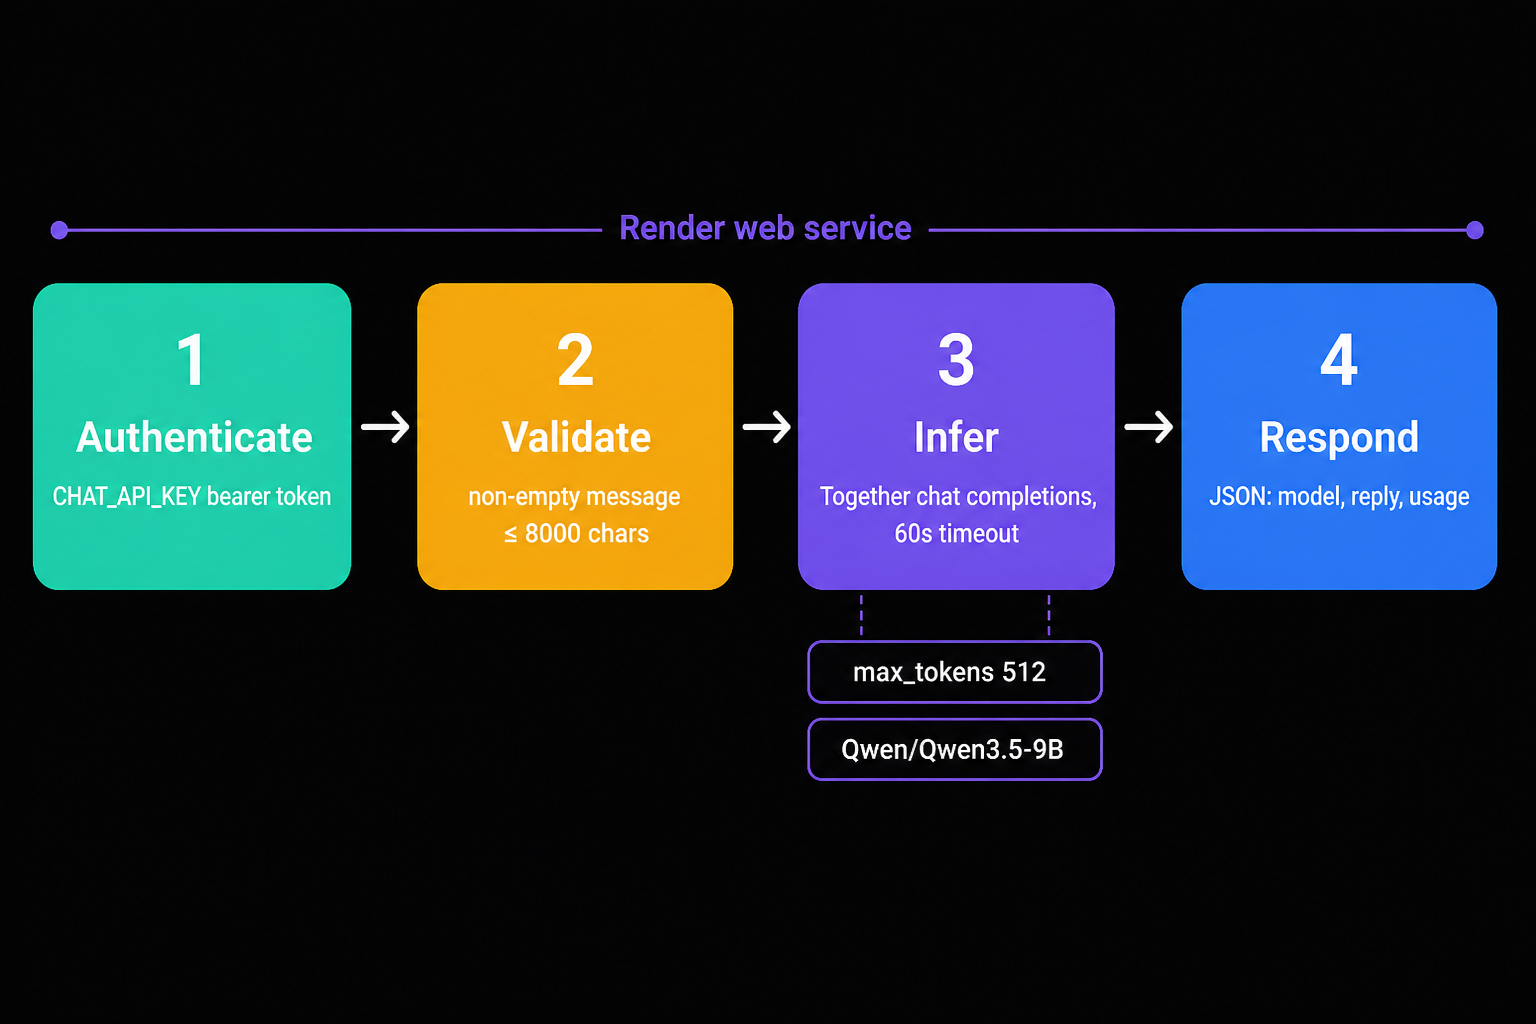
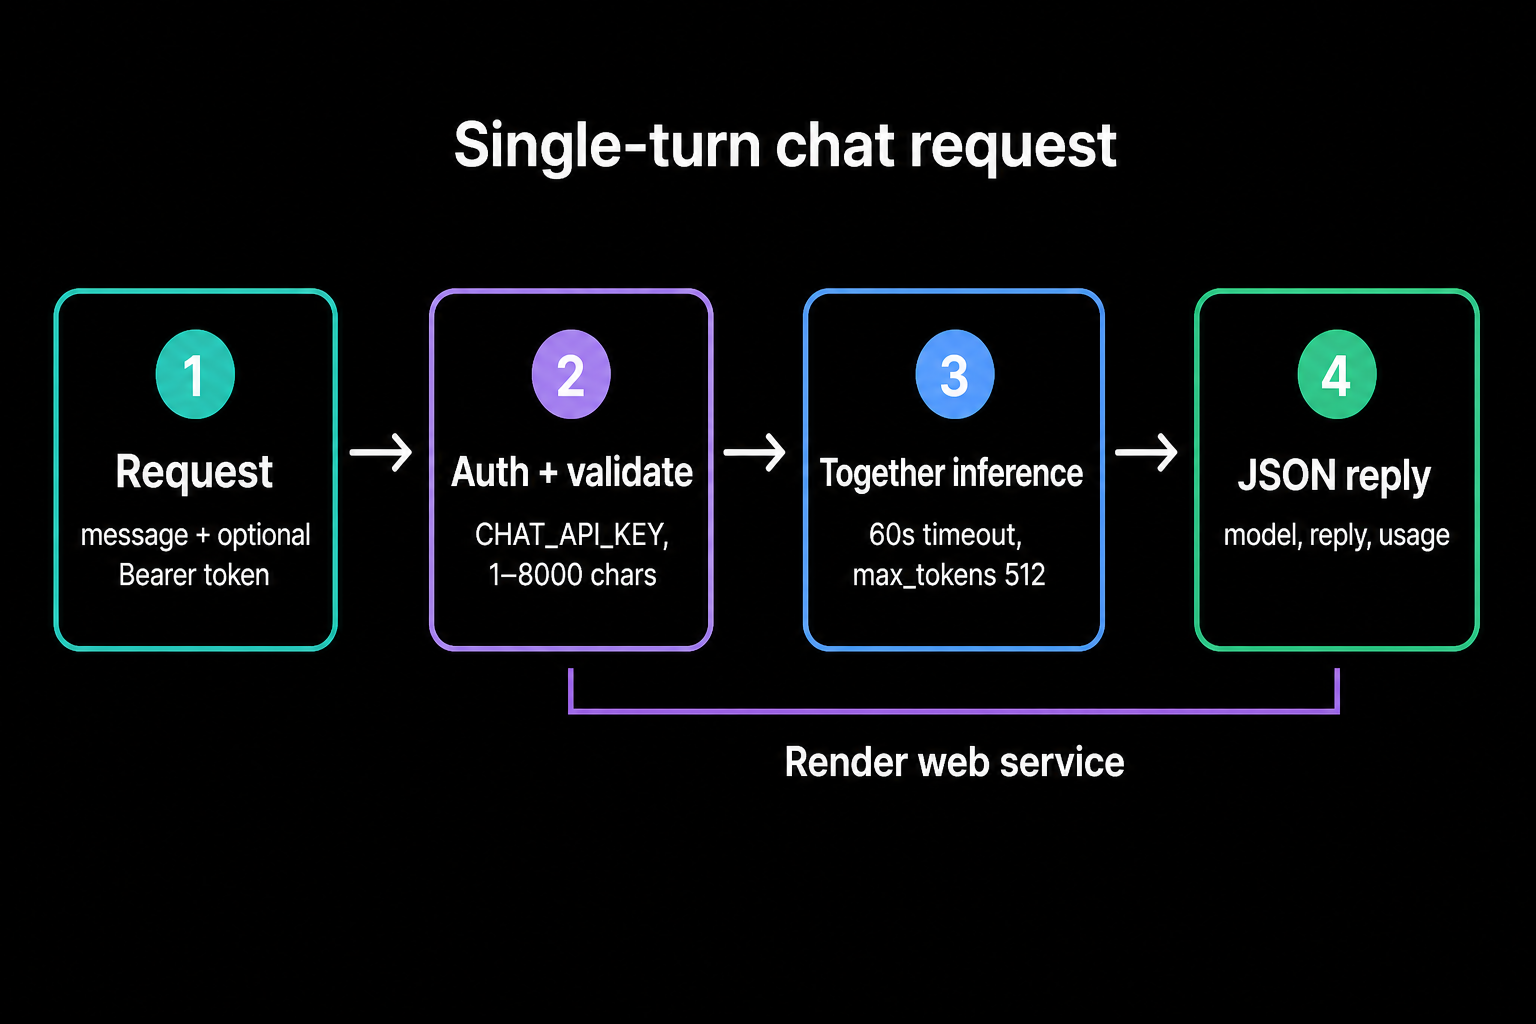
Rewrite the README to match the LlamaIndex demo hub layout.

Changed region(s): [[0.0, 0.1875, 1.0, 0.7812], [0.2812, 0.125, 0.75, 0.1875]]

diff --git a/README.md b/README.md
@@ -1,8 +1,8 @@
 <div align="center">
 
-# Together chat API on Render (TypeScript)
+# Together Chat API
 
-Authenticated single-turn `POST /chat` backed by [Together AI](https://docs.together.ai/docs/render-chat-api), running as a Render web service. Express forwards one user message to chat completions and returns the reply, model ID, and token usage. The landing page keeps a browser-side thread and sends it to `POST /ui/chat`. That extra route exists so the browser never sees `CHAT_API_KEY`, which the [Together guide](https://docs.together.ai/docs/render-chat-api) says not to embed in client code.
+An authenticated chat API on **Render**, backed by **Together AI** chat completions. Express accepts a bearer token and a message, calls Together, and returns the reply, model ID, and token usage.
 
 <p>
   <a href="https://render.com/deploy?repo=https://github.com/ojusave/together-render-chat-ts">
@@ -17,57 +17,106 @@ Authenticated single-turn `POST /chat` backed by [Together AI](https://docs.toge
   <a href="https://docs.together.ai/docs/render-chat-api">
     <img src="https://img.shields.io/badge/Together-Chat%20API-0f6fff" alt="Together AI" />
   </a>
-  <a href="https://github.com/ojusave/together-render-chat-python">
-    <img src="https://img.shields.io/badge/Python-FastAPI%20sibling-3776AB?logo=python&logoColor=white" alt="Python sibling" />
+  <a href="https://discord.gg/gvC7ceS9YS">
+    <img src="https://img.shields.io/badge/Discord-Render%20Developers-5865F2?logo=discord&logoColor=white" alt="Discord" />
+  </a>
+  <a href="https://discord.gg/9Rk6sSeWEG">
+    <img src="https://img.shields.io/badge/Discord-Together%20AI-5865F2?logo=discord&logoColor=white" alt="Together AI Discord" />
   </a>
 </p>
 
 </div>
 
-## What This Template Shows
+## What This Demo Shows
 
-The Blueprint is the TypeScript path from Together's [Build a chat API on Render](https://docs.together.ai/docs/render-chat-api) guide, flattened into its own repo so the Deploy button can point at a single `render.yaml`.
+This repo is the TypeScript path from Together's [Build a chat API on Render](https://docs.together.ai/docs/render-chat-api) guide:
 
-| Piece | Role |
+| Platform | Role |
 | --- | --- |
-| **[Together AI chat completions](https://docs.together.ai/docs/inference/chat/overview)** | Server-side inference with `TOGETHER_API_KEY` |
-| **[Render web service](https://render.com/docs/web-services)** | Public HTTPS, health checks, `0.0.0.0:$PORT` |
-| **`CHAT_API_KEY`** | Separate bearer token for callers of `POST /chat` |
+| **[Render Web Services](https://render.com/docs/web-services)** | Hosts the Express API, health checks, and landing page on `0.0.0.0:$PORT` |
+| **[Together AI](https://docs.together.ai/docs/inference/chat/overview)** | Runs chat completions with `TOGETHER_API_KEY` (default `Qwen/Qwen3.5-9B`) |
+| **`CHAT_API_KEY`** | Separate bearer token for `POST /chat`, so the Together key never leaves the server |
+
+Python sibling: [together-render-chat-python](https://github.com/ojusave/together-render-chat-python).
 
 ## Architecture
 
-![Architecture diagram](static/images/architecture-diagram.png)
+![Architecture](static/images/architecture-diagram.png)
 
 ![Pipeline flow](static/images/pipeline-flow.png)
 
 ### How It Works
 
-1. A trusted client sends `Authorization: Bearer $CHAT_API_KEY` and `{"message":"..."}` to `POST /chat`.
-2. The service rejects missing or oversized messages before it spends Together credits.
-3. It calls `https://api.together.ai/v1/chat/completions` with a 60 second timeout.
-4. It returns `{ model, reply, usage }` or an explicit 401 / 400 / 502 / 504.
+1. **Browser** talks to `POST /ui/chat` with the thread. A trusted API client talks to `POST /chat` with `Authorization: Bearer $CHAT_API_KEY`.
+2. **Express** on Render validates the body before it spends Together credits.
+3. The service calls `https://api.together.ai/v1/chat/completions` and waits up to 60 seconds.
+4. It returns `{ model, reply, usage }`, or an explicit 401 / 400 / 502 / 504.
 
-| Resource | Type | Plan | Notes |
-| --- | --- | --- | --- |
-| `together-chat-ts` | Web service | Starter | Always-on paid instance |
+| Route | Together call | What it does |
+| --- | --- | --- |
+| `GET /health` | — | Unauthenticated probe for Render |
+| `POST /chat` | One user message | Documented API: bearer `CHAT_API_KEY` required |
+| `POST /ui/chat` | Last 40 thread turns | Landing-page helper so the browser never sees `CHAT_API_KEY` |
 
-Default region: **Oregon** unless you change it in the Dashboard. This service stores no chat history.
+The service stores no chat history. The browser keeps the thread in memory.
 
 ## Quick Start
 
 ### Prerequisites
 
-- A [Render account](https://dashboard.render.com/register?utm_source=github&utm_medium=referral&utm_campaign=ojus_demos&utm_content=readme_link)
-- A [Together AI](https://api.together.ai/) account with an active credit balance and a project API key
-- A caller secret: `openssl rand -hex 32` (this is `CHAT_API_KEY`, not the Together key)
+- [Render account](https://dashboard.render.com/register?utm_source=github&utm_medium=referral&utm_campaign=ojus_demos&utm_content=readme_link)
+- [Together AI account](https://api.together.ai/) with an active credit balance and a project API key
+- A caller secret: `openssl rand -hex 32` (this becomes `CHAT_API_KEY`, not the Together key)
 
 ### Deploy
 
-1. Click **Deploy to Render** above.
-2. Paste `TOGETHER_API_KEY` and `CHAT_API_KEY` when Render prompts for secrets.
-3. Wait until the service is **Live** (about 2 to 4 minutes on first build).
-4. Open the service URL. The page chats using the Together key already on the service.
-5. For the HTTP API, send `Authorization: Bearer $CHAT_API_KEY` to `POST /chat`.
+1. Click **Deploy to Render** above
+2. You'll be prompted for:
+   - `TOGETHER_API_KEY` — [Get one here](https://api.together.ai/)
+   - `CHAT_API_KEY` — the hex secret you generated
+3. Wait until the service is **Live**
+4. Open the web service URL and send a message in the page
+
+## Features
+
+| Feature | Description |
+| --- | --- |
+| **Authenticated chat** | `POST /chat` compares the bearer token with `timingSafeEqual` |
+| **Browser thread** | The landing page sends conversation history to `POST /ui/chat` |
+| **Public health check** | `GET /health` is unauthenticated so Render can probe it |
+| **Upstream mapping** | Together 4xx/5xx become 502; 60s timeouts become 504 |
+| **Swap the model** | Change `TOGETHER_MODEL` in the Dashboard and redeploy |
+
+## Configuration
+
+| Variable | Where | Description |
+| --- | --- | --- |
+| `TOGETHER_API_KEY` | Web service | [Together project API key](https://api.together.ai/) |
+| `CHAT_API_KEY` | Web service | Bearer token for `POST /chat` |
+| `TOGETHER_MODEL` | Web service | Defaults to `Qwen/Qwen3.5-9B` |
+| `PORT` | Web service | Set by Render; the server binds `0.0.0.0:$PORT` |
+
+> [!WARNING]
+> Do not embed `CHAT_API_KEY` in browser or mobile app code. The shared token is a server-to-server guard for this demo. The landing page uses `POST /ui/chat` for that reason.
+
+## Project Structure
+
+```
+server.ts         Express health + chat handler
+public/           Landing page (Deploy / Sign up / chat UI)
+static/images/    Architecture diagrams
+render.yaml       Render Blueprint
+package.json      Node 22–24, Express 5
+```
+
+## API Routes
+
+| Method | Path | Description |
+| --- | --- | --- |
+| `GET` | `/` | Landing page |
+| `GET` | `/health` | `{ ok, model }` |
+| `POST` | `/chat` | Single-turn chat. Requires `Authorization: Bearer $CHAT_API_KEY` and `{"message":"..."}` |
+| `POST` | `/ui/chat` | Multi-turn helper for the page. Body is `{"messages":[{"role","content"}, ...]}` |
 
 ```bash
 export SERVICE_URL="https://together-chat-ts-xxxx.onrender.com"
@@ -85,35 +134,6 @@ curl -X POST "$SERVICE_URL/chat" \
 unset CHAT_API_KEY
 ```
 
-Do not embed `CHAT_API_KEY` in browser or mobile app code. The shared token is a server-to-server guard for this demo.
-
-## Features
-
-| Feature | Description |
-| --- | --- |
-| **Authenticated chat** | `POST /chat` requires a bearer token compared with `timingSafeEqual` |
-| **Public health check** | `GET /health` is unauthenticated so Render can probe it |
-| **Upstream mapping** | Together 4xx/5xx become 502; 60s timeouts become 504 |
-| **Swap the model** | Change `TOGETHER_MODEL` in the Dashboard and redeploy |
-
-## Configuration
-
-| Variable | Source | Description |
-| --- | --- | --- |
-| `TOGETHER_API_KEY` | Required | Project-scoped Together API key |
-| `CHAT_API_KEY` | Required | Bearer token callers use against this service |
-| `TOGETHER_MODEL` | Optional | Defaults to `Qwen/Qwen3.5-9B` |
-| `PORT` | Wired | Set by Render; the server binds `0.0.0.0:$PORT` |
-
-## Cost
-
-| Resource | Approx. monthly |
-| --- | ---: |
-| Web service (Starter) | ~$7 |
-| Together inference | Billed by Together |
-
-Starter stays up. Together usage is separate from Render hosting.
-
 ## Troubleshooting
 
 | Problem | Solution |
@@ -122,30 +142,19 @@ Starter stays up. Together usage is separate from Render hosting.
 | Health check fails | Confirm the process listens on `0.0.0.0` and `PORT`, and that both secrets are set so the process can start. |
 | `401` on `/chat` | Send `Authorization: Bearer` plus the same `CHAT_API_KEY` value stored on the service. |
 | `502` with `upstreamStatus` | Together rejected the call. Check the key, model ID, and Together credit balance. |
-| Slow first request | Confirm the service is Live and that `TOGETHER_API_KEY` is set. |
-
-## Project Structure
-
-```
-render.yaml       Render Blueprint
-server.ts         Express health + chat handler
-public/           Landing page (Deploy / Sign up / tester)
-static/images/    Architecture diagrams
-package.json      Node 22–24, Express 5
-```
+| Follow-ups forget earlier turns | Use the landing page (`POST /ui/chat`). Documented `POST /chat` is single-turn. |
 
 ## Learn More
 
 **Render:**
-- [Web services](https://render.com/docs/web-services)
+- [Render Web Services](https://render.com/docs/web-services)
 - [Deploy to Render button](https://render.com/docs/deploy-to-render-button)
-- [Free plan limits](https://render.com/docs/free)
+- [Render Developers Discord](https://discord.gg/gvC7ceS9YS)
 
-**Upstream:**
+**Together AI:**
 - [Build a chat API on Render](https://docs.together.ai/docs/render-chat-api)
 - [Chat completions](https://docs.together.ai/docs/inference/chat/overview)
-
-Python sibling: [together-render-chat-python](https://github.com/ojusave/together-render-chat-python).
+- [Together AI Discord](https://discord.gg/9Rk6sSeWEG)
 
 ## License
 
